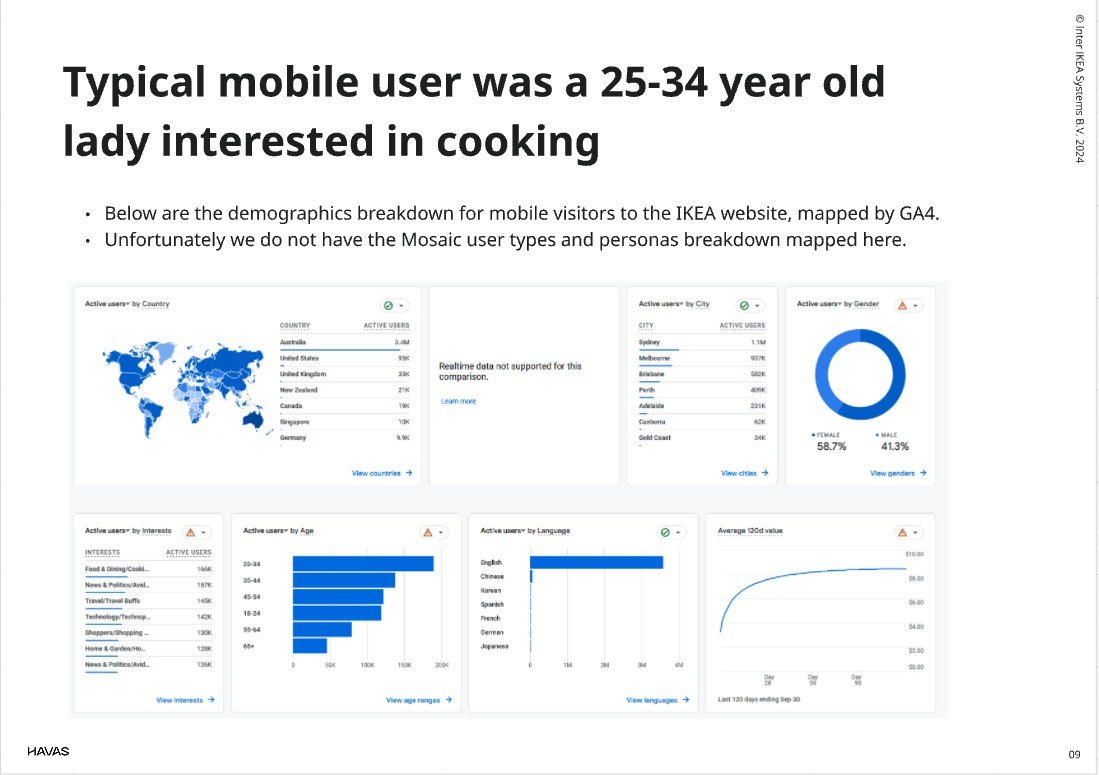
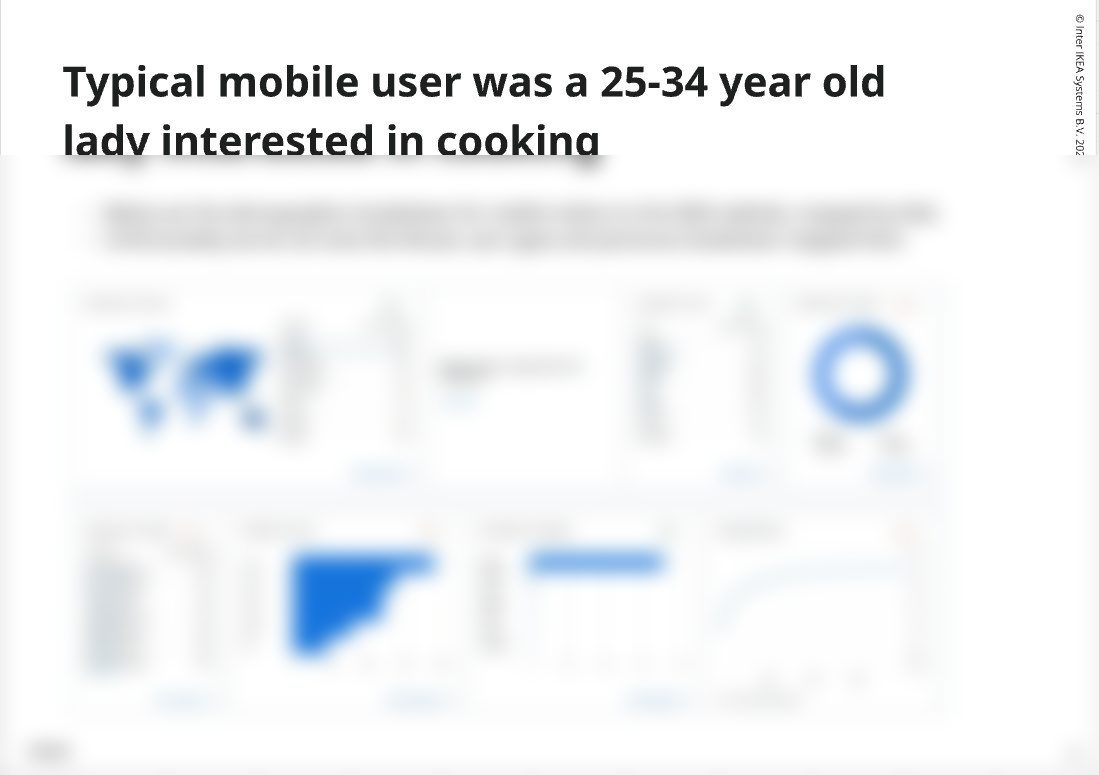
Design update 15 Nov: menu tweaks, board colours, redacted IKEA/RSL/Fiji data images
Built by design on 8f16418. Rollback: git revert this commit.

Claude-Session: https://claude.ai/code/session_01CyhDNNeGBS6ctbtpeDafKC

diff --git a/work/index.html b/work/index.html
@@ -6,8 +6,8 @@
 <link rel="preconnect" href="https://fonts.googleapis.com"><link rel="preconnect" href="https://fonts.gstatic.com" crossorigin>
 <link rel="stylesheet" href="https://fonts.googleapis.com/css2?family=Inder&family=Grenze:wght@700&display=swap">
 <style>
-:root{--ink:#23221F;--cream:#E7E7D6;--paper:#fbfaf3}
-html,body{margin:0;height:100%;overflow:hidden;background:var(--cream);color:var(--ink);font-family:Inder,system-ui,sans-serif;-webkit-font-smoothing:antialiased}
+:root{--ink:#23221F;--cream:#E7E7D6;--paper:#fbfaf3;--board:#F0F2E9}  /* board = the old RSL tint (Fred, 15 Nov); RSL now uses the cream */
+html,body{margin:0;height:100%;overflow:hidden;background:var(--board);color:var(--ink);font-family:Inder,system-ui,sans-serif;-webkit-font-smoothing:antialiased}
 /* board; the dot grid never gets denser than it is at reading size */
 .vp{position:fixed;inset:0;overflow:hidden;cursor:grab;touch-action:none}
 .vp.drag{cursor:grabbing}
@@ -58,7 +58,7 @@ html,body{margin:0;height:100%;overflow:hidden;background:var(--cream);color:var
 @media (max-width:700px){.hint{display:none}.bar .dots{display:none}}
 
 /* the first page: the work board from the postcard preview */
-.index{position:fixed;inset:0;background:var(--cream)}
+.index{position:fixed;inset:0;background:var(--board)}
 .ivp{position:absolute;inset:0;overflow:hidden;cursor:grab;touch-action:none}
 .ivp.drag{cursor:grabbing}
 .iworld{position:absolute;left:0;top:0;transform-origin:0 0;will-change:transform}
@@ -271,6 +271,9 @@ html.deep .index{visibility:hidden}  /* inside a case the name would sit on the 
 
 #menu a:hover,#menu a:focus-visible{text-decoration:underline;text-decoration-thickness:1px;text-underline-offset:3px}
 
+/* Selected work: no menu dot (Fred, 15 Nov); the back button, then the name, which opens the menu */
+#dot{display:none!important}#who{left:50px}#menu{left:13px}
+
 /* page to page: the postcard and Selected work slide sideways, like one long wall (Chrome, Edge, Safari 18.2+; others just switch) */
 @view-transition{navigation:auto}
 ::view-transition-old(root),::view-transition-new(root){animation-duration:.9s;animation-timing-function:cubic-bezier(.65,0,.35,1);animation-fill-mode:both;mix-blend-mode:normal}
@@ -282,9 +285,9 @@ html.vt-back::view-transition-old(root){animation-name:vt-out-right}html.vt-back
 </style><script>addEventListener('pagereveal',e=>{if(!e.viewTransition)return;document.documentElement.classList.add('vt-fwd');e.viewTransition.finished.finally(()=>document.documentElement.classList.remove('vt-fwd'))})</script><script>if(/[?&]c=[a-z]/.test(location.search)||/\/work\/[a-z]+\/?$/.test(location.pathname))document.documentElement.classList.add('deep')</script></head><body>
 <button class="back" aria-label="Back to hello"><svg viewBox="0 0 26 26" aria-hidden="true"><path class="i-back" d="M14.6 8.2 9.8 13l4.8 4.8"/><path class="i-close" d="M9 9l8 8M17 9l-8 8"/></svg></button>
 <button id="dot" aria-label="Menu" aria-expanded="false" aria-controls="menu"></button>
-<p id="who"><button class="name" aria-controls="menu">Fred Torstensson</button><a href="https://www.linkedin.com/in/ftorstensson/" target="_blank" rel="noopener">LinkedIn</a></p>
+<p id="who"><button class="name" aria-controls="menu">Fred Torstensson</button><a href="https://www.linkedin.com/in/ftorstensson/" target="_blank" rel="noopener">Contact me (LinkedIn)</a></p>
 <nav id="menu" aria-label="Menu">
- <div class="col"><a class="head" href="../" data-go="0">Hello there!</a><div class="mlinks"><a href="../?to=f" data-go="1">Deep thoughts</a><a href="../?to=fredbot" data-go="2">Fika</a><a href="../?to=game" data-go="3">Invaders from Space</a></div></div>
+ <div class="col"><a class="head" href="../" data-go="0">Hello</a><div class="mlinks"><a href="../?to=f" data-go="1">Deep thoughts</a><a href="../?to=fredbot" data-go="2">Let’s fika</a><a href="../?to=game" data-go="3">Invaders from Space</a></div></div>
  <div class="col"><a class="head" href="./" data-work="">Selected work</a><div class="cases"></div></div>
 </nav>
 <main class="index" aria-label="Selected work"><div class="ivp"><div class="iworld"></div></div><div class="ctl"><button data-z="-1" aria-label="Zoom out">−</button><button data-z="1" aria-label="Zoom in">+</button><button data-z="0">Fit</button></div></main>
@@ -354,12 +357,12 @@ const CASES=[
    'Multicultural NSW (NSW Government): “one of the most culturally diverse states in the world”.',
    'A rough estimate for 2021–22. The Legislative Council’s committees took in 7,521 submissions, and its members lodged 2,351 written questions (Legislative Council Annual Report 2021–22). The Legislative Assembly lodged more than 1,000 written questions a year, going by its question numbers from November 2021 to June 2022. That’s already nearly 11,000, before Hansard, minutes, tabled papers and the Assembly’s committees. The records start in 1824, when the Legislative Council first met.',
    'StatCounter Global Stats, October 2026: 59.9% of web traffic worldwide came from mobile phones, against 38.5% from desktops.']},
- {id:'rsl',side:true,logo:'logos/rsl.webp',name:'RSL Queensland Lottery',accent:'#C6D2C1',photo:'cards/rsl.jpg',photos:[['photos/rsl-home.jpg','A prize home'],['photos/rsl-balcony.jpg','A prize home balcony'],['photos/rsl-medals.jpg','Veterans’ medals']],
+ {id:'rsl',side:true,logo:'logos/rsl.webp',name:'RSL Queensland Lottery',accent:'#C6D2C1',bg:'#E7E7D6',photo:'cards/rsl.jpg',photos:[['photos/rsl-home.jpg','A prize home'],['photos/rsl-balcony.jpg','A prize home balcony'],['photos/rsl-medals.jpg','Veterans’ medals']],
   short:'A dream home lottery, built to sell on a phone.',who:'Host/Havas · UX Director · 2022',res:'“Smart CTA is a winner” (218 testers)',
   title:'RSL Queensland Lottery: a dream home lottery, built to sell on a phone',
   kick:'For RSL Queensland, at Host/Havas · UX Director · Strategy, UX and UI design up to the build · 2022',
   sections:[
-   {id:'problem',h:'Problem',pic:'Loyal buyers and dream buyers',p:['Lotteries are big business in Australia. After prizes, Australians spend over $3 billion a year on them.<sup>1</sup> RSL Queensland runs the country’s biggest prize home lottery,<sup>2</sup> and it’s the main way it pays for its work with veterans and their families. But the buyers were changing. The loyal ones, many of whom bought for the cause, were getting older. Newer buyers came for the dream home, and to them it could become just another game. Then there’s the phone. Over half the site’s traffic came from mobile, and mobile converted below desktop. Closing that gap was worth about $1.2 million a year.<sup>3</sup> The best customers were the VIPs, who subscribe. But the offer was hard to understand, and pausing it took a phone call. So the site had to make a complicated lottery simple, on a small screen.']},
+   {id:'problem',h:'Problem',pic:'Loyal buyers and dream buyers',p:['Lotteries are big business in Australia. After prizes, Australians spend over $3 billion a year on them.<sup>1</sup> RSL Queensland runs the country’s biggest prize home lottery,<sup>2</sup> and it’s the main way it pays for its work with veterans and their families. But the buyers were changing. The loyal ones, many of whom bought for the cause, were getting older. Newer buyers came for the dream home, and to them it could become just another game. Then there’s the phone. Most of the site’s traffic came from mobile, and mobile converted below desktop. Closing that gap was worth a lot. The best customers were the VIPs, who subscribe. But the offer was hard to understand, and pausing it took a phone call. So the site had to make a complicated lottery simple, on a small screen.']},
    {id:'solution',h:'Solution',pic:'The Smart CTA',p:['The idea: let the checkout come to you. Tap buy, and the checkout opens on top of the page, so nobody leaves the dream home they’re looking at. We called it the Smart CTA. That’s where the hard decisions live: how many tickets, which bonus, one draw or a subscription, and how to pay. Each had to feel obvious on a phone, with Apple Pay, Google Pay and PayPal a tap away. Subscription comes first, because the lottery would now sell itself as a subscription, with single tickets on the side. Users told us the catch: “Yes please, as long as it’s easy to pause.” So the member area works like an app. Members pause and manage it all themselves. No phone call.']},
    {id:'role',h:'My role',intro:'I led the strategy and the experience, from the first workshops to the final prototype test.',items:[
     ['Research:','stakeholder workshops and interviews at RSL Queensland.','Workshops'],
@@ -370,8 +373,7 @@ const CASES=[
     ['Experience direction:','our UI designer at Havas made three UI concepts, then took the chosen one into detail. Together we kept it simple and on brand.','UI concepts']]},
    {id:'out',h:'Outcome',p:['I tested the final prototype on Maze in June 2022, with 218 random testers. The verdict: “Smart CTA is a winner.” The new member page worked well too, and the checkout follows the conventions people already know. That’s what counts. The checkout is where the buying happens, and it had to work on a phone. My job ended where the build began. RSL’s own developers built it from there.']}],
   notes:['Australian Institute of Health and Welfare, Gambling in Australia, using Queensland Government Statistician’s Office, Australian Gambling Statistics (2024): $3.11 billion in net losses on lotteries (lotto, pools and instant scratch tickets) in 2022–23, in 2022–23 dollars.',
-   'Dream Home Art Union (called RSL Art Union until October 2024), “Our history”: “Australia’s largest prize home lottery”.',
-   'RSL Queensland’s site data for 2021, from the project’s business case: over 50% of traffic from mobile, close to 60% with tablets.']},
+   'Dream Home Art Union (called RSL Art Union until October 2024), “Our history”: “Australia’s largest prize home lottery”.']},
  {id:'afp',side:true,logo:'logos/afp.webp',name:'Australian Federal Police',accent:'#B9A7E0',photo:'cards/afp.jpg',photos:[['photos/afp-building.jpg','The Edmund Barton Building, AFP headquarters in Canberra'],['photos/afp-room.jpg','A workshop with the AFP'],['photos/afp-boards.jpg','Workshop boards']],
   short:'A careers site, built to recruit a more diverse force.',who:'Host/Havas · UX Director · 2021',res:'300+ pages down to under 100, WCAG AA',
   title:'Australian Federal Police: a careers site, built to recruit a more diverse force',
@@ -387,7 +389,7 @@ const CASES=[
     ['Content mapping:','templates and content maps first, so every page type had its content before it had a layout.','Content maps'],
     ['Wireframes and testing:','detailed wireframes of the core components and page types, mobile and desktop side by side.','Wireframes'],
     ['Experience direction:','our interface design team made the final designs, other Havas teams wrote the content, and the creative strategy team led the brand. Together we kept it accessible and on brand.','Final designs']]},
-   {id:'out',h:'Outcome',p:['The Treejack test confirmed the information architecture, and the careers hub launched in early March 2021. The AFP’s verdict: “As a result of the comprehensive research undertaken, the AFP have a way forward in the effort to increase diversity in the organisation.” That’s Emma Hardy, Taskforce Horizon, People and Culture Command. That’s the part that counts. The job was never just a website. It was a step toward a more diverse AFP.']}],
+   {id:'out',h:'Outcome',p:['The Treejack test confirmed the information architecture, and the careers hub launched in early March 2021. The AFP’s verdict: “As a result of the comprehensive research undertaken, the AFP have a way forward in the effort to increase diversity in the organisation.” That came from the AFP’s People and Culture Command. That’s the part that counts. The job was never just a website. It was a step toward a more diverse AFP.']}],
   notes:['Australian Federal Police, media release, 7 May 2021: sworn women (police and protective service officers) made up 22% of the AFP, against a new target of 30% by 2028.']},
  {id:'unsw',side:true,logo:'logos/unsw.webp',name:'UNSW',accent:'#F4E35A',photo:'cards/unsw.jpg',photos:[['photos/unsw-nobel.jpg','UNSW, Kensington'],['boards/unsw/workshop-wall.jpg','A workshop with UNSW'],['boards/unsw/workshop-sketch.jpg','Sketching the pages together']],
   short:'Over 250 websites, turned into one.',who:'Re · UX Director · 2020',res:'Tree test: 417 people, 2,787 tasks',
@@ -481,7 +483,7 @@ const icard=(cls,html)=>el('div','card '+cls,html,iworld);
 const ititle=icard('title','<h1>Selected work</h1><p>A few nice projects. Have a look and tell me what you think.</p>');
 const inote=icard('note','<p><a href="https://www.linkedin.com/in/ftorstensson/" target="_blank" rel="noopener" aria-label="Let’s fika: message Fred on LinkedIn">Let’s fika!</a></p>');
 const icards=CASES.map((c,ci)=>{const b=el('article','card'+(c.soon?' soon':''),
- (c.cardPhoto?`<div class="ctop photo"><img src="${c.photo}" alt="" loading="lazy"></div>`:`<div class="ctop" style="background:${c.accent}33">${c.logo?`<img class="clogo" src="${c.logo}" alt="${c.name} logo" style="${logoSize(c,110,280,150)}">`:''}</div>`)+`<div class="cbody"><h2 class="cname">${c.name}</h2><p>${c.soon?'Placeholder. The case study goes here.':c.short+'<br>'+c.who}</p>${c.res?`<p class="res"><b>${c.res}</b></p>`:''}</div>`,iworld);
+ (c.cardPhoto?`<div class="ctop photo"><img src="${c.photo}" alt="" loading="lazy"></div>`:`<div class="ctop" style="background:${c.bg||c.accent+'33'}">${c.logo?`<img class="clogo" src="${c.logo}" alt="${c.name} logo" style="${logoSize(c,110,280,150)}">`:''}</div>`)+`<div class="cbody"><h2 class="cname">${c.name}</h2><p>${c.soon?'Placeholder. The case study goes here.':c.short+'<br>'+c.who}</p>${c.res?`<p class="res"><b>${c.res}</b></p>`:''}</div>`,iworld);
  b.dataset.id=c.id;if(!c.soon){b.tabIndex=0;b.setAttribute('role','link');b.setAttribute('aria-label','Open case: '+c.name);b.onkeydown=e=>{if(e.key==='Enter'||e.key===' '){e.preventDefault();go2(c.id)}}}return b});
 const place=(e,x,y)=>{e.style.left=x+'px';e.style.top=y+'px'};
 function ilayout(){const ph=phone();document.body.classList.toggle('phone',ph);
@@ -703,7 +705,7 @@ document.querySelector('.bar .play').onclick=()=>toggleRead();
 {const el=tourEl();el.querySelector('.tplay').onclick=()=>{reading.paused?resumeTour():pauseTour()};el.querySelector('.tx').onclick=()=>stopRead();
  el.querySelector('.tsegs').onclick=e=>{const i=[...e.currentTarget.children].indexOf(e.target.closest('i'));if(i>=0&&reading)seekTour(i)}}
 // the case board takes the soft tint behind the card's logo: the accent at 20% over the card's paper
-function caseBg(c){const h=x=>parseInt(x,16),a=c.accent||'#F4F2EA',b='#fbfaf3',m=i=>Math.round(h(a.substr(i,2))*.2+h(b.substr(i,2))*.8);return 'rgb('+m(1)+','+m(3)+','+m(5)+')'}
+function caseBg(c){if(c.bg)return c.bg;const h=x=>parseInt(x,16),a=c.accent||'#F4F2EA',b='#fbfaf3',m=i=>Math.round(h(a.substr(i,2))*.2+h(b.substr(i,2))*.8);return 'rgb('+m(1)+','+m(3)+','+m(5)+')'}
 // post-its: same copy on every case, but each case gets its own colours, angle and a nudge, so the set feels hand-placed
 const NOTE_COLS={yellow:'#F4E35A',green:'#BDE7A6',pink:'#F7BACB',blue:'#AED8F2',orange:'#F8C27A',lilac:'#D3C4F3'};
 const NOTES={fiji:{n:'yellow',s:'green',nr:2.5,sr:-2,nx:0,ny:0,sx:0},

diff --git a/index.html b/index.html
@@ -607,17 +607,17 @@ window.GAME={enter(){showReady();if(!twOn){twOn=true;layoutStars();requestAnimat
 </script><!-- ---------- site navigation: menu dot, name line, menu (own scope; does not touch the paging or the game) ---------- -->
 <style>
 /* dark screens: cream dot, cream name, cream menu card with ink text. Hidden while a game runs (the score sits there) */
-#dot{position:fixed;left:20px;top:20px;width:14px;height:14px;padding:0;border:0;border-radius:50%;background:#E7E7D6;cursor:pointer;z-index:60;transition:transform .2s ease-out,opacity .3s}
+#dot{position:fixed;left:14px;top:14px;width:26px;height:26px;padding:0;border:0;border-radius:50%;cursor:pointer;z-index:60;transition:transform .2s ease-out,opacity .3s;background:linear-gradient(#23221F,#23221F) center calc(50% - 4px)/11px 2px no-repeat,linear-gradient(#23221F,#23221F) center/11px 2px no-repeat,linear-gradient(#23221F,#23221F) center calc(50% + 4px)/11px 2px no-repeat,#E7E7D6}
 #dot::after{content:"";position:absolute;inset:-12px}
-#dot:hover,#dot:focus-visible,#dot[aria-expanded=true]{transform:scale(1.3);outline:none}
-#who{position:fixed;left:46px;top:20px;z-index:58;margin:0;height:14px;display:flex;align-items:center;gap:.9em;font:400 15px/1 Inder,sans-serif;letter-spacing:.01em;color:#E7E7D6;white-space:nowrap;pointer-events:none;transition:opacity .3s}
+#dot:hover,#dot:focus-visible,#dot[aria-expanded=true]{transform:scale(1.12);outline:none}
+#who{position:fixed;left:50px;top:20px;z-index:58;margin:0;height:14px;display:flex;align-items:center;gap:.9em;font:400 15px/1 Inder,sans-serif;letter-spacing:.01em;color:#E7E7D6;white-space:nowrap;pointer-events:none;transition:opacity .3s}
 #who .name{all:unset;cursor:pointer;pointer-events:auto;position:relative}#who .name::after{content:"";position:absolute;inset:-10px -4px}
 #who .name:hover,#who .name:focus-visible{text-decoration:underline;text-underline-offset:3px}
 #who a{color:inherit;text-decoration:none;pointer-events:auto;position:relative}#who a::after{content:"";position:absolute;inset:-10px -6px}
 #who a:hover,#who a:focus-visible{opacity:1;text-decoration:underline;text-underline-offset:3px;outline:none}
 @media (max-width:480px){#who{font-size:13px;gap:.7em}}
 body.gaming #dot,body.gaming #who{opacity:0;pointer-events:none}body.gaming #who *{pointer-events:none}
-#menu{position:fixed;left:20px;top:46px;z-index:59;display:grid;grid-template-columns:auto auto;gap:6px 40px;padding:18px 24px 20px;background:#E7E7D6;color:#23221F;border-radius:14px;box-shadow:0 10px 40px rgba(0,0,0,.35);opacity:0;transform:translateY(-6px);pointer-events:none;transition:opacity .2s,transform .2s}
+#menu{position:fixed;left:14px;top:48px;z-index:59;display:grid;grid-template-columns:auto auto;gap:6px 40px;padding:18px 24px 20px;background:#E7E7D6;color:#23221F;border-radius:14px;box-shadow:0 10px 40px rgba(0,0,0,.35);opacity:0;transform:translateY(-6px);pointer-events:none;transition:opacity .2s,transform .2s}
 #menu.on{opacity:1;transform:none;pointer-events:auto}
 #menu .col{display:flex;flex-direction:column;gap:2px;min-width:0}
 #menu a{color:inherit;text-decoration:none;font:700 17px/1.6 Inder,sans-serif;white-space:nowrap}
@@ -628,9 +628,9 @@ body.gaming #dot,body.gaming #who{opacity:0;pointer-events:none}body.gaming #who
 @media (prefers-reduced-motion:reduce){#menu{transition:none}}
 </style>
 <button id="dot" aria-label="Menu" aria-expanded="false" aria-controls="menu"></button>
-<p id="who"><button class="name" aria-controls="menu">Fred Torstensson</button><a href="https://www.linkedin.com/in/ftorstensson/" target="_blank" rel="noopener">LinkedIn</a></p>
+<p id="who"><button class="name" aria-controls="menu">Fred Torstensson</button><a href="https://www.linkedin.com/in/ftorstensson/" target="_blank" rel="noopener">Contact me (LinkedIn)</a></p>
 <nav id="menu" aria-label="Menu">
- <div class="col"><a class="head" href="./" data-go="0">Hello there!</a><div class="mlinks"><a href="?to=f" data-go="1">Deep thoughts</a><a href="?to=fredbot" data-go="2">Fika</a><a href="?to=game" data-go="3">Invaders from Space</a></div></div>
+ <div class="col"><a class="head" href="./" data-go="0">Hello</a><div class="mlinks"><a href="?to=f" data-go="1">Deep thoughts</a><a href="?to=fredbot" data-go="2">Let’s fika</a><a href="?to=game" data-go="3">Invaders from Space</a></div></div>
  <div class="col"><a class="head" href="work/">Selected work</a><div class="cases"><a href="work/?c=fiji">Tourism Fiji</a><a href="work/?c=ikea">IKEA Australia</a><a href="work/?c=nsw">Parliament of NSW</a><a href="work/?c=rsl">RSL Queensland Lottery</a><a href="work/?c=afp">Australian Federal Police</a><a href="work/?c=unsw">UNSW</a></div></div>
 </nav>
 <script>
